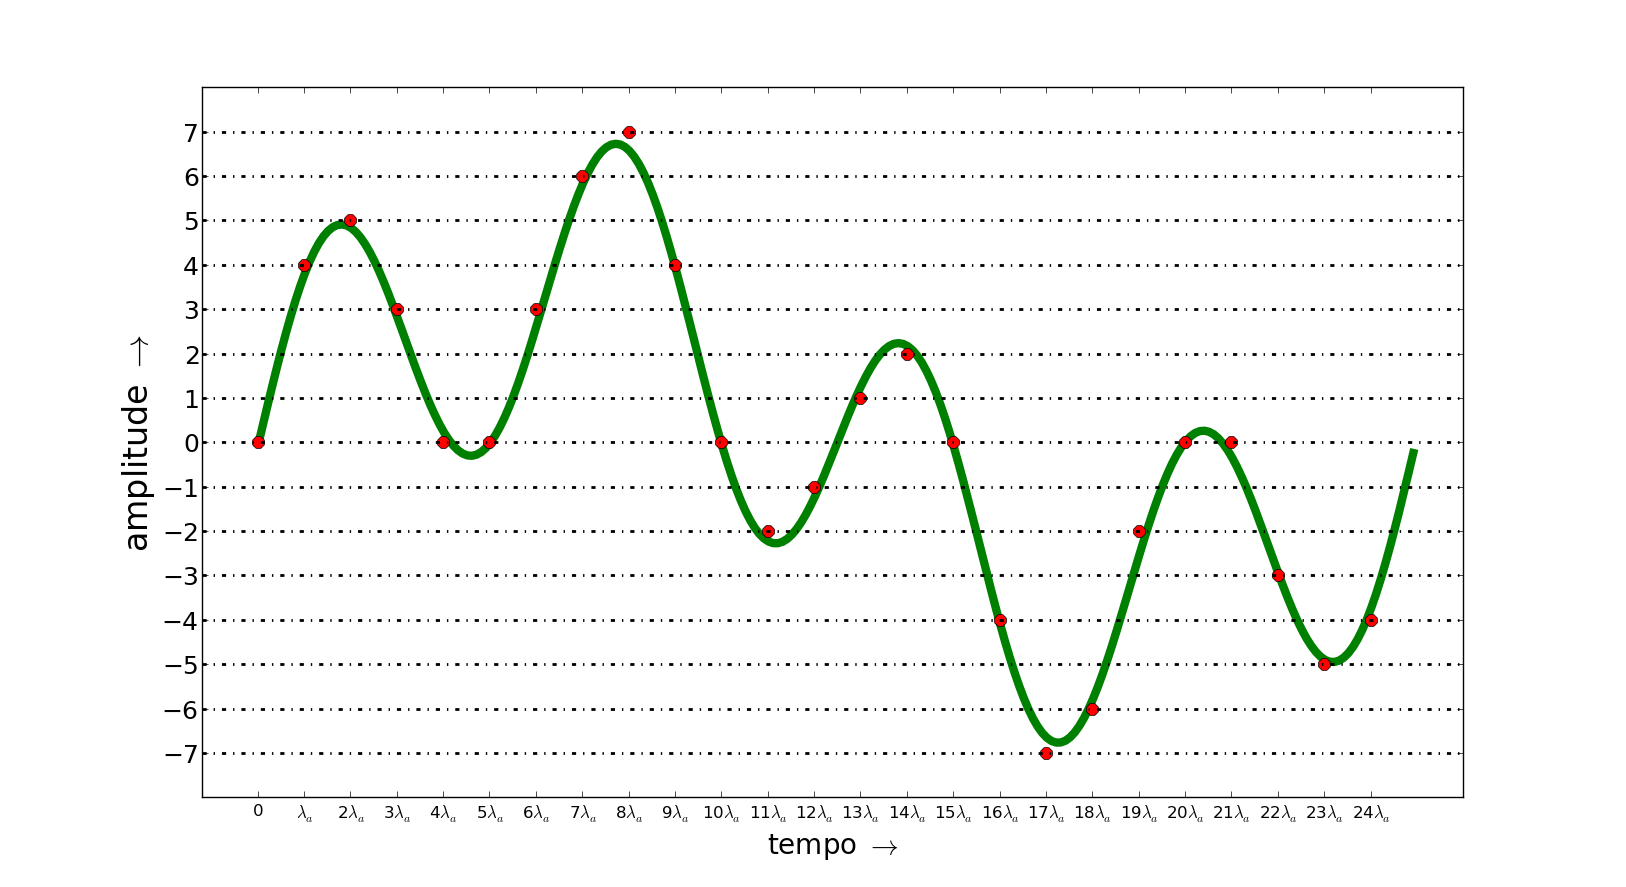
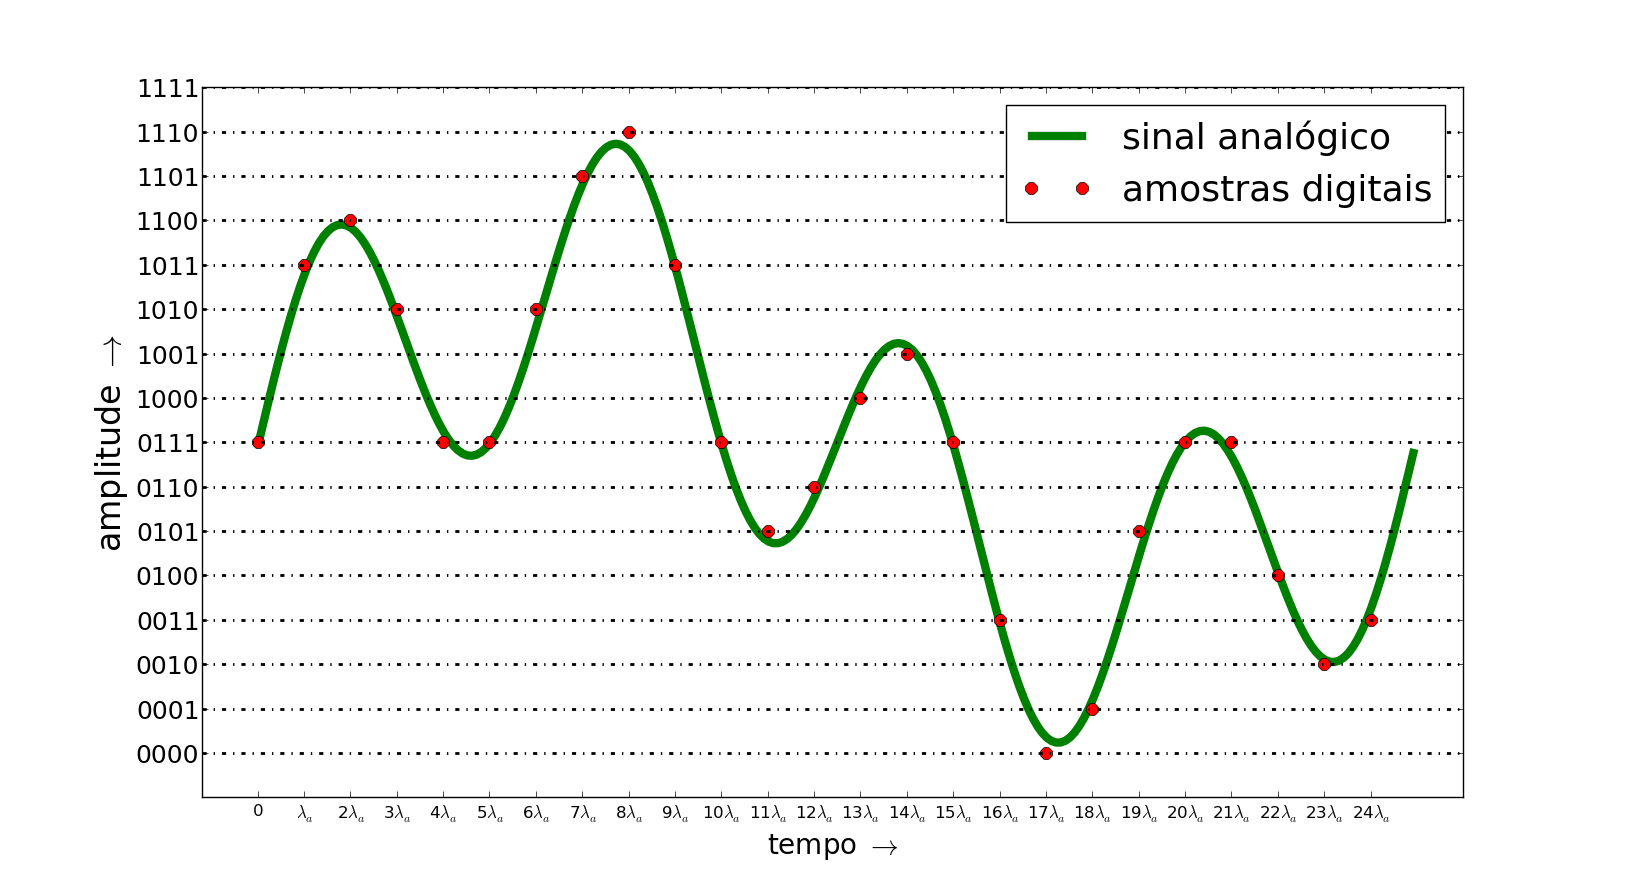
adiantada introducao, indo para cap 2 jah

diff --git a/scripts/pcm.py b/scripts/pcm.py
@@ -1,5 +1,5 @@
 #-*- coding: utf8 -*-
-import numpy as n, pylab as p
+import numpy as n, pylab as p, string
 
 # plotando um som em PCM de 4 bits de profundidade
 
@@ -12,12 +12,18 @@ b=n.sin(aa)+n.sin(4*aa)
 b*=.5
 b*=2**3-1 # 4 bits
 
-p.plot(aa,b,"g",lw=6)
+p.plot(aa,b,"g",lw=6,label=u"sinal analógico")
 
 c=n.round(b)
-p.plot(aa[::10],c[::10],'ro',ms=9)
+p.plot(aa[::10],c[::10],'ro',ms=9,label="amostras digitais")
 
-p.yticks(range(-7,8), fontsize=18)
+def bits(i,n):
+    return tuple(("0","1")[i>>j & 1] for j in xrange(n-1,-1,-1)) 
+
+foo=[bits(i,4) for i in xrange(2**4)]
+bar=[string.join(ii,"") for ii in foo]
+p.yticks(range(-7,9),bar, fontsize=18)
+
 xlabs=[r"$\lambda_a$"]*len(aa[::10])
 xlabs=[str(i)+xlabs[i] for i in xrange(len(xlabs))]
 xlabs[0]=0
@@ -25,6 +31,8 @@ xlabs[1]=r"$\lambda_a$"
 p.xticks((aa[::10]),xlabs)
 
 p.xlim(-.3,aa[::10][-1]+0.5)
+
+p.legend(prop={'size':26})
 
 p.xlabel(r"tempo $\rightarrow$",fontsize=20)
 p.ylabel(r"amplitude $\rightarrow$",fontsize=24)
